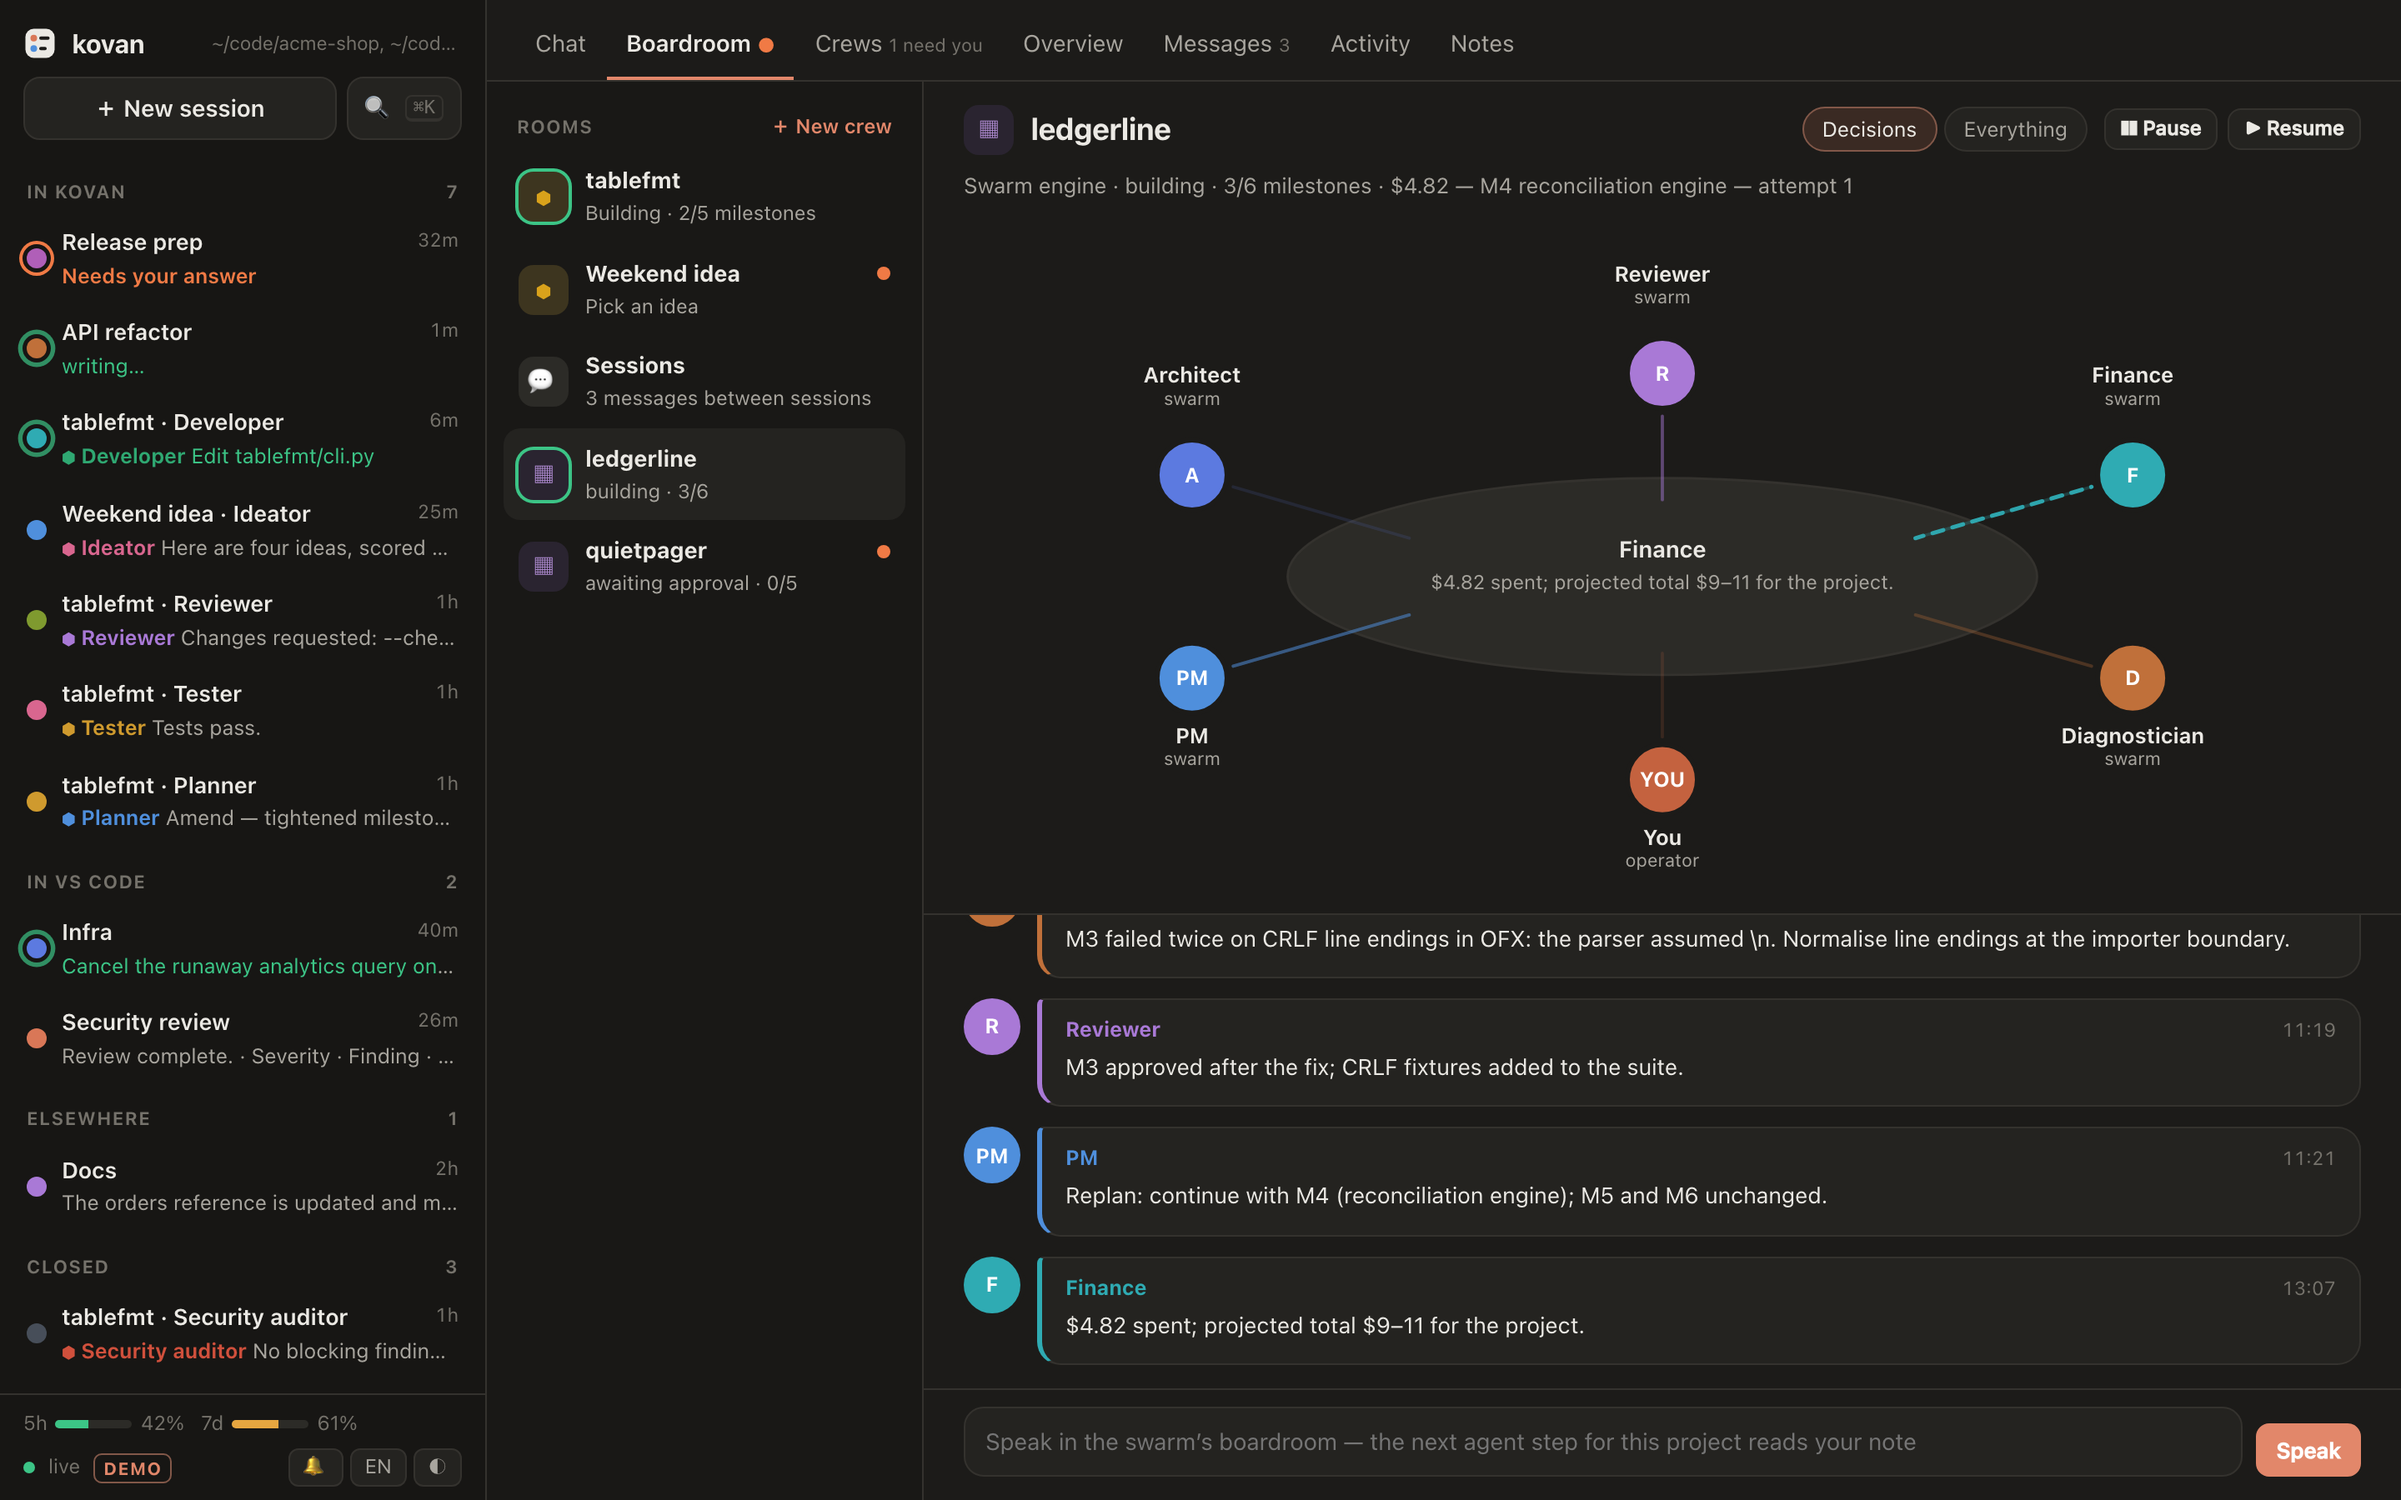
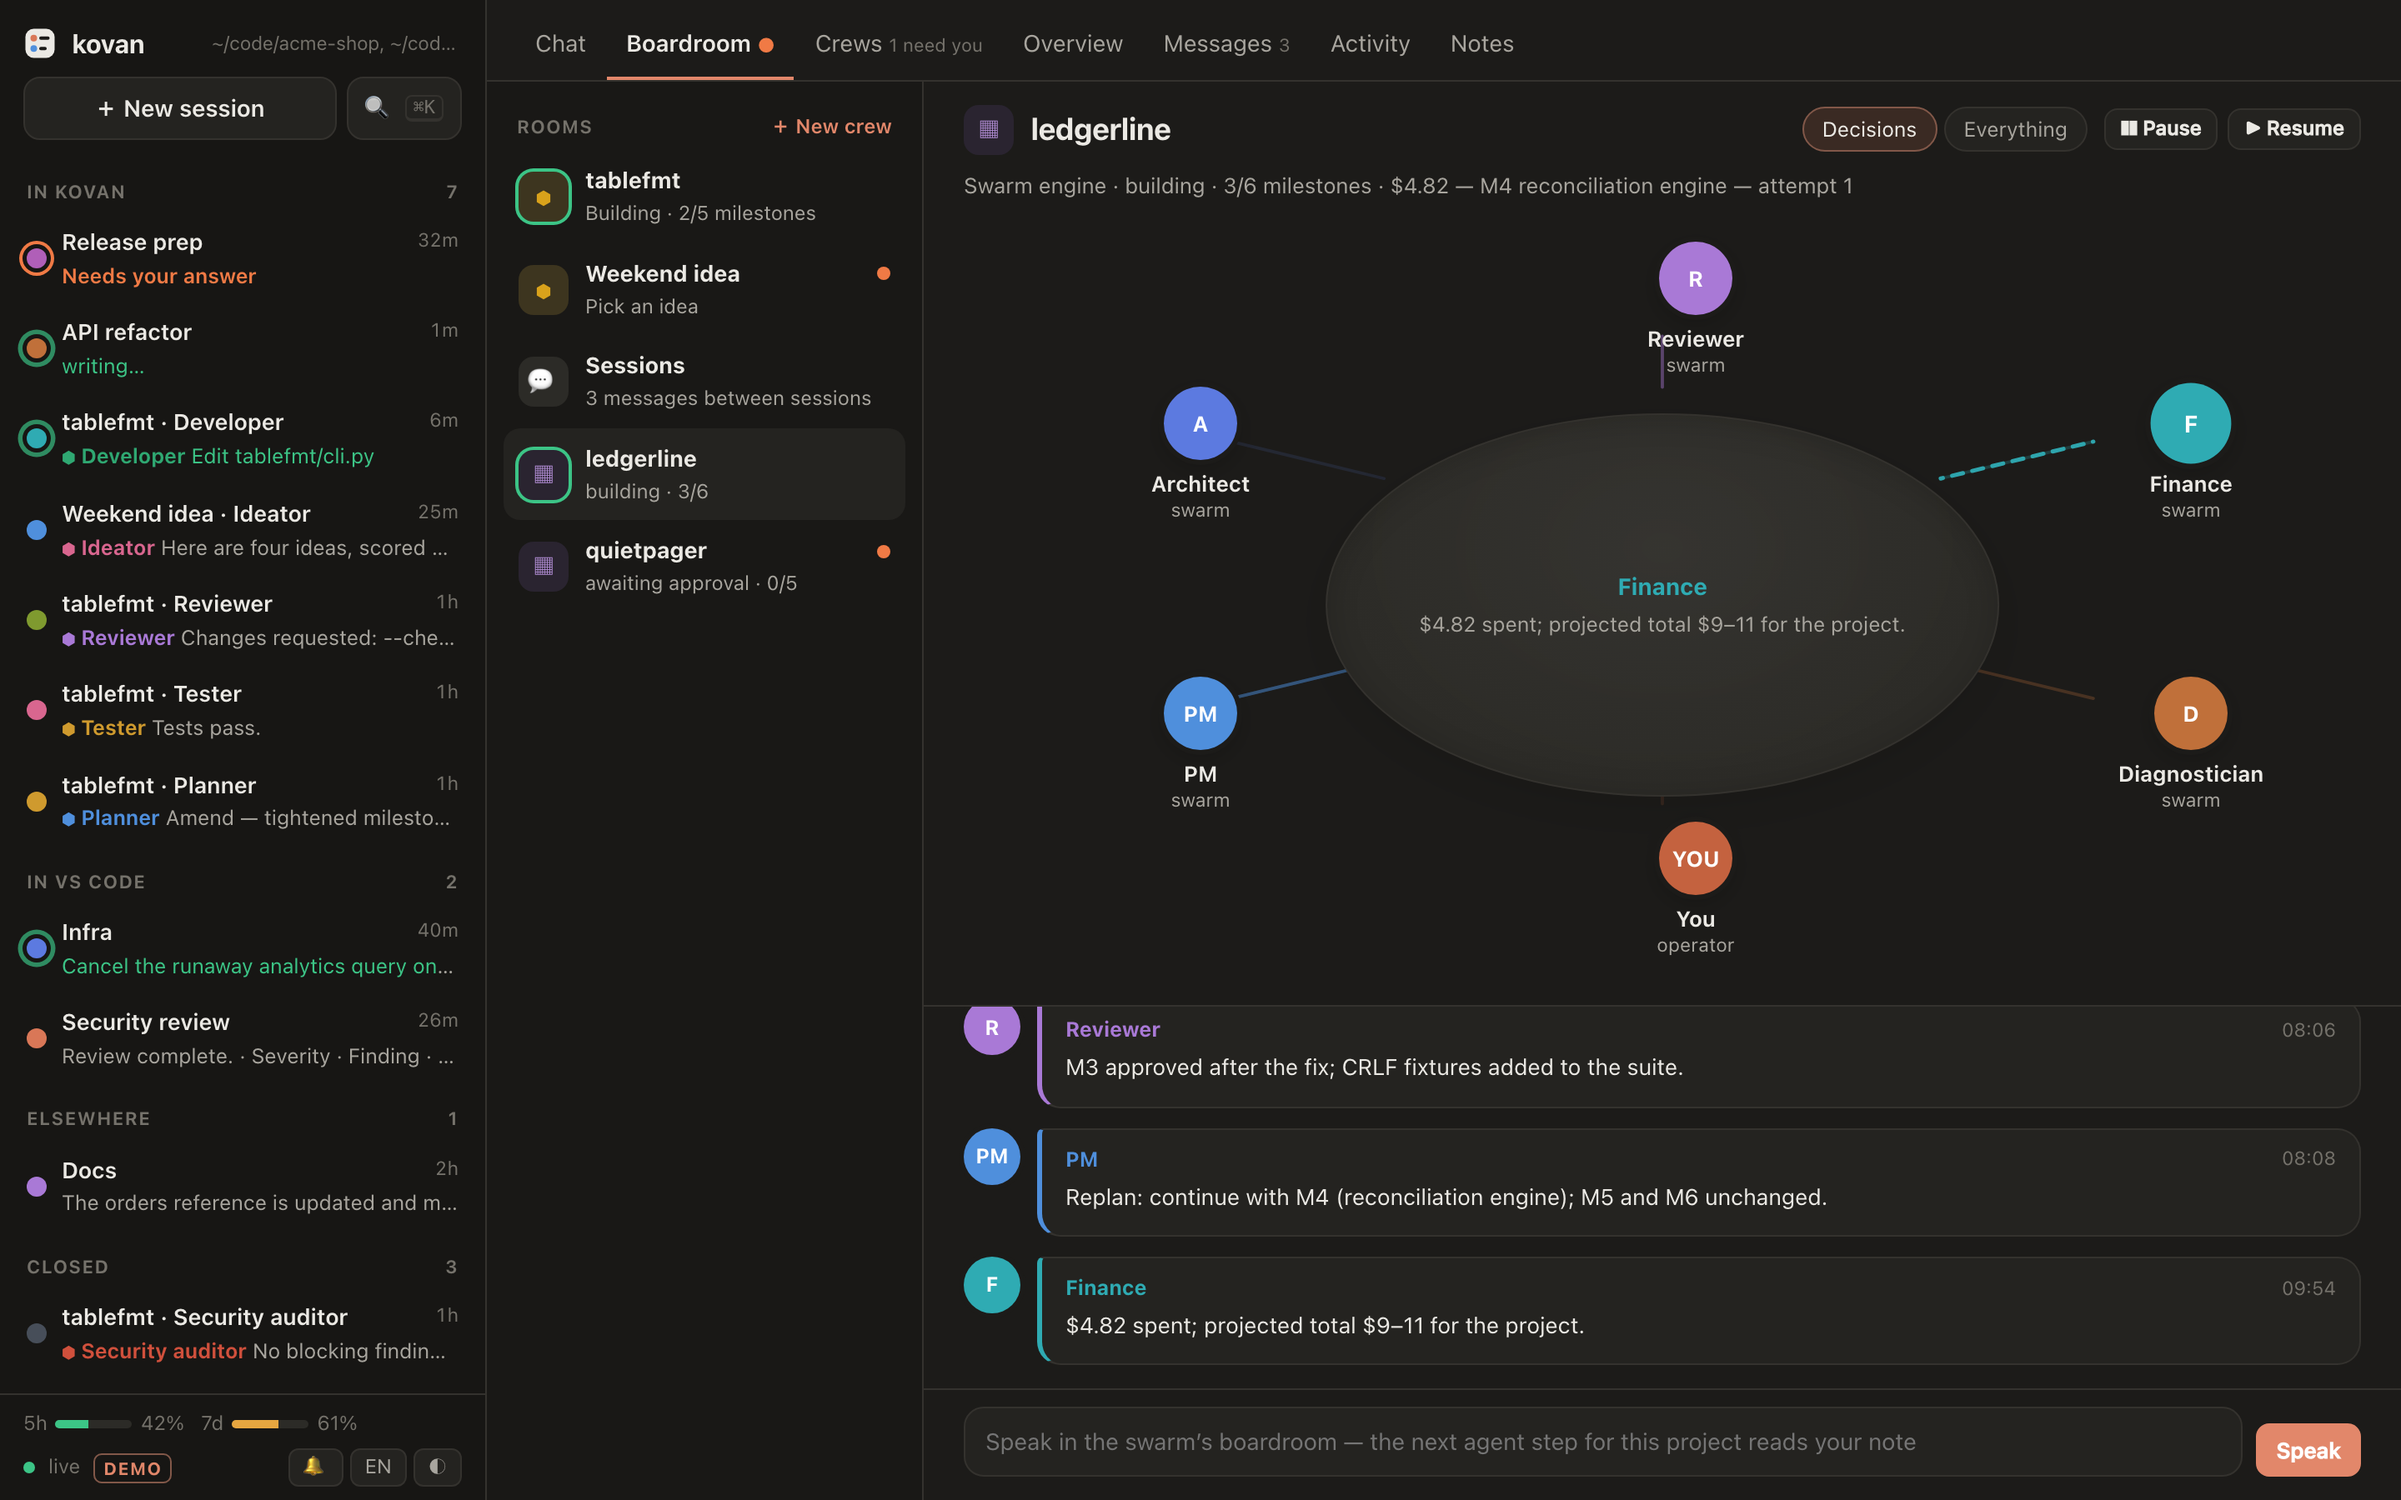
cockpit: fresh screenshots of the new boardroom; seats keep clear of the edges

diff --git a/cockpit/kovan/static/index.html b/cockpit/kovan/static/index.html
@@ -1710,7 +1710,7 @@ function tableSVG(R){
   const seats=R.seats,n=seats.length;if(!n)return'';
   if(tsize()==='s')return seatRow(R);
   // Seats sit on an ellipse; every label hangs below its seat, so the bottom edge keeps room for three lines.
-  const[W,H]=stageSize(),small=tsize()==='s',top=small?30:38,bottom=small?52:82,cx=W/2,cy=(top+H-bottom)/2,rx=W*.42,ry=(H-bottom-top)/2,pos={};
+  const[W,H]=stageSize(),small=tsize()==='s',top=small?30:38,bottom=small?52:82,cx=W/2,cy=(top+H-bottom)/2,rx=Math.min(W*.42,W/2-96),ry=(H-bottom-top)/2,pos={};
   seats.forEach((s,i)=>{const a=Math.PI/2+2*Math.PI*i/n;pos[s.key]={x:cx+rx*Math.cos(a),y:cy+ry*Math.sin(a),a};});
   const ow=W*.46,oh=Math.max(70,ry*2-(small?64:118));
   const talks=(R.entries||[]).filter(e=>pos[e.speaker]&&!(roleKey(e.speaker)==='kovan'&&e.kind==='status')).slice(-10);
